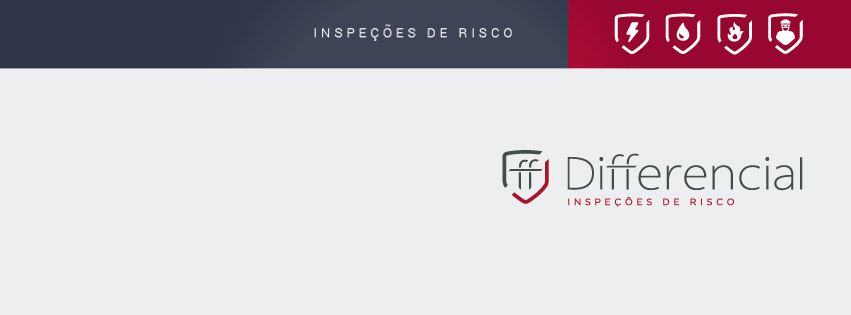
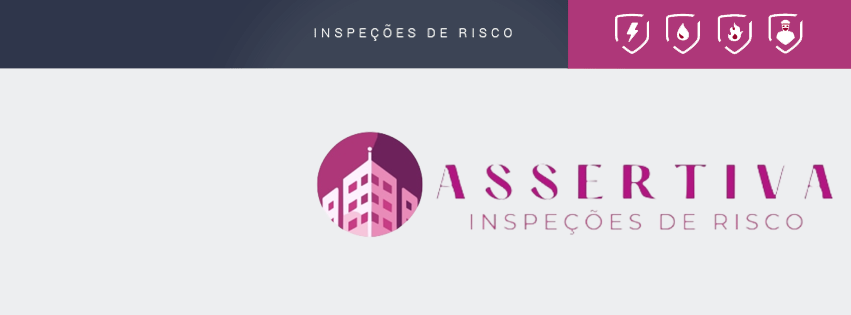
atualização identidade

Changed region(s): [[0.3666, 0.4, 0.9777, 0.7714], [0.6416, 0.0, 1.0, 0.2286]]

diff --git a/src/Differencial.Web/wwwroot/Content/style.css b/src/Differencial.Web/wwwroot/Content/style.css
@@ -783,18 +783,20 @@ body.canvas-menu.mini-navbar nav.navbar-static-side {
 .btn-primary {
     /*background-color: #1ab394;
   border-color: #1ab394;*/
-    /*Cor diferrencial*/
+    /*Cor diferrencial
     background-color: #b43546;
-    border-color: #b43546;
+    border-color: #b43546;*/
     color: #FFFFFF;
+    background-color: #b31482;
+    border-color: #b31482;
 }
 
     .btn-primary:hover, .btn-primary:focus, .btn-primary:active, .btn-primary.active, .open .dropdown-toggle.btn-primary, .btn-primary:active:focus, .btn-primary:active:hover, .btn-primary.active:hover, .btn-primary.active:focus {
         /*background-color: #18a689;
   border-color: #18a689;*/
         /*Cor diferrencial*/
-        background-color: #901224;
-        border-color: #901224;
+        background-color: #7f0d5c;
+        border-color: #7f0d5c;
         color: #FFFFFF;
     }
 
@@ -9922,8 +9924,8 @@ table .w10px {
     left: 40%;
     border: 4px solid #bbc3c7;
     border-radius: 50%;
-    border-top: 4px solid #bb4e5d;
-    border-bottom: 4px solid #bb4e5d;
+    border-top: 4px solid #b31482;
+    border-bottom: 4px solid #b31482;
     width: 32px;
     height: 32px;
     -webkit-animation: spin 1s linear infinite;

diff --git a/src/Differencial.Web/wwwroot/Content/differencial.css b/src/Differencial.Web/wwwroot/Content/differencial.css
@@ -104,12 +104,12 @@ fieldset {
 .form-group label.required {
     margin-right: 10px;
 }
-.form-group label.required:after {
-    color: #c72c2c;
-    content: "*";
-    position: absolute;
-    margin-left: 3px;
-}
+    .form-group label.required:after {
+        color: #b31482;
+        content: "*";
+        position: absolute;
+        margin-left: 3px;
+    }
 
 
 
